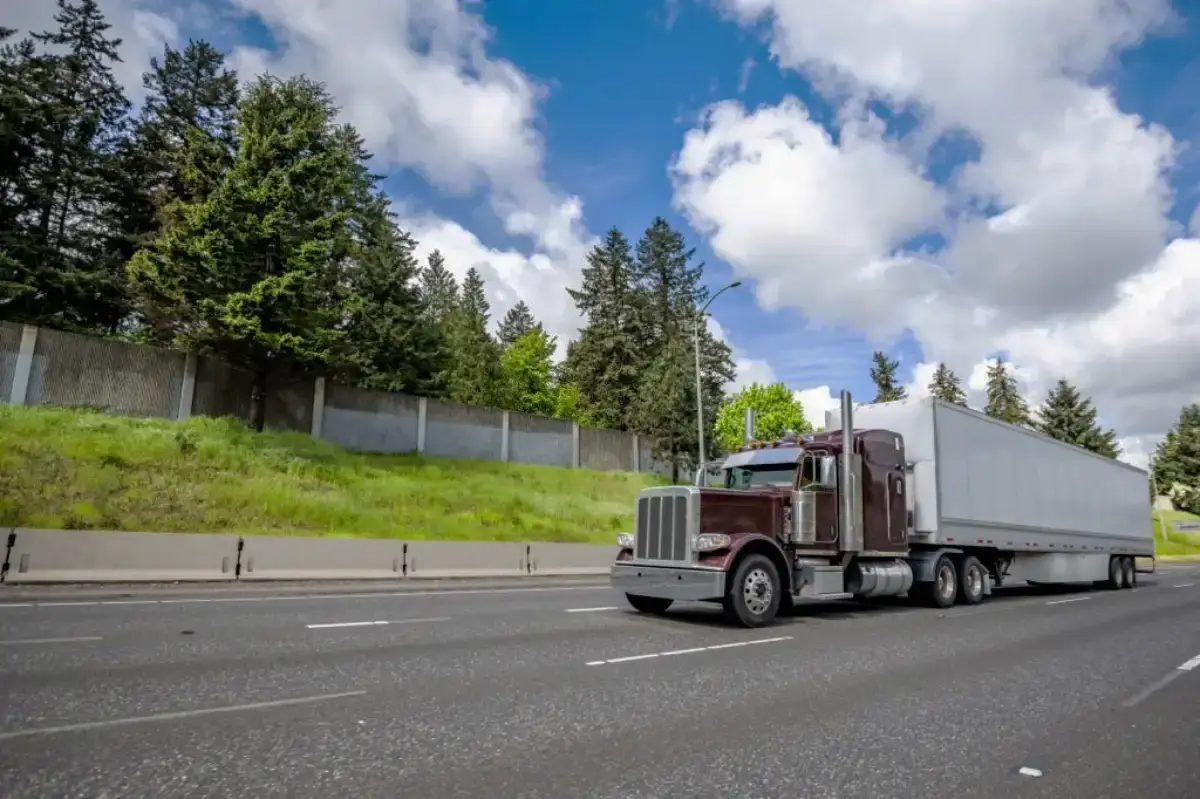
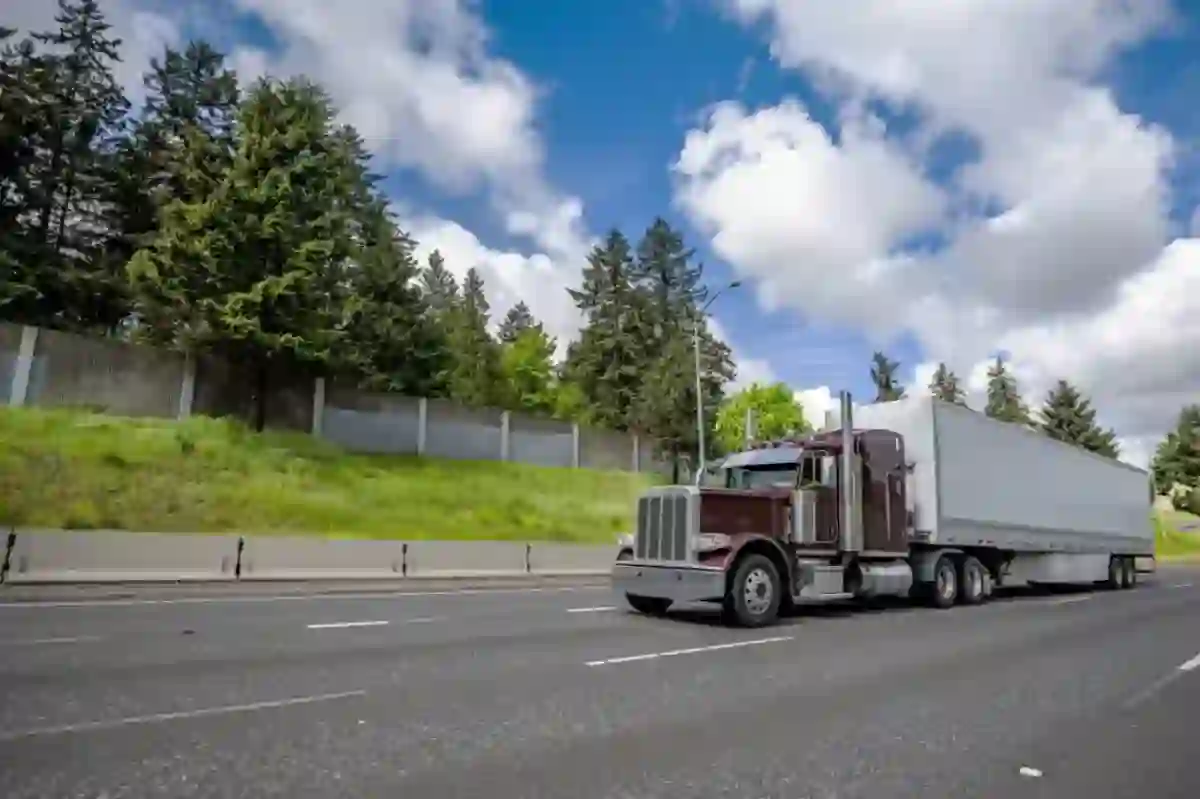
add

diff --git a/css/style.css b/css/style.css
@@ -228,7 +228,7 @@
 }
 
 .page-header {
-    background: linear-gradient(rgba(6, 3, 21, .5), rgba(6, 3, 21, .5)), url(../img/Arizona-Truck.webp) center center no-repeat;
+    background: linear-gradient(rgba(6, 3, 21, .5), rgba(6, 3, 21, .5)), url(../img/about-header.webp) center center no-repeat;
     background-size: cover;
 }
 
